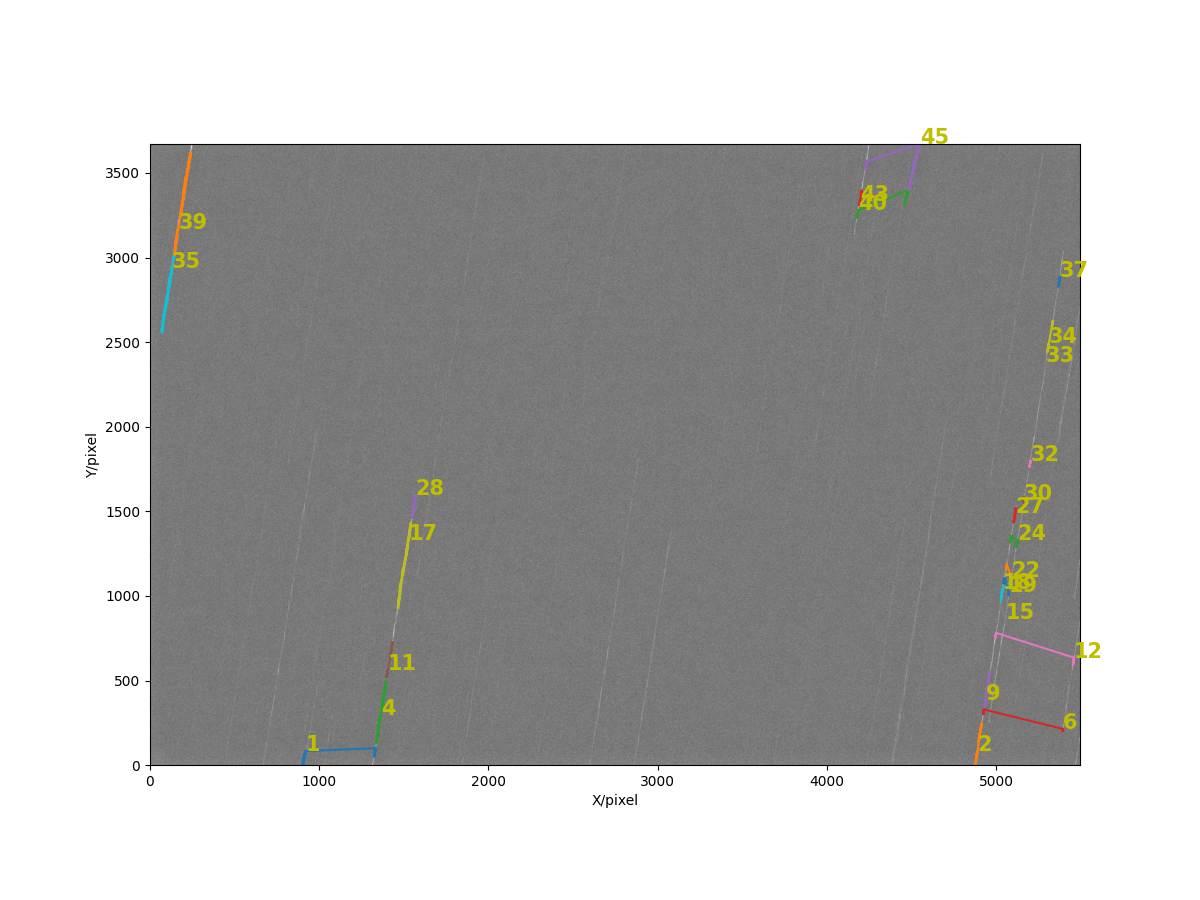
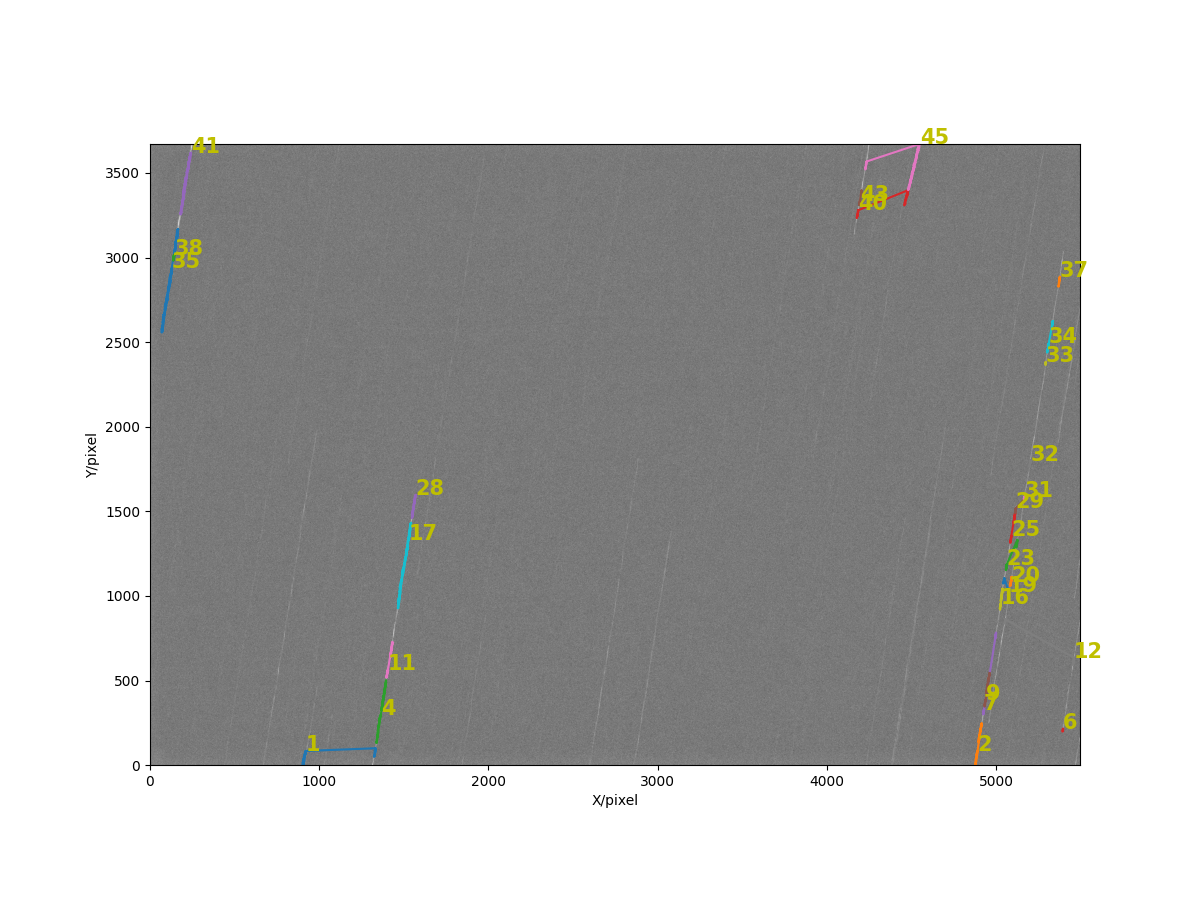
angle range parameter removal

diff --git a/astride/utils/edge3.py b/astride/utils/edge3.py
@@ -219,7 +219,7 @@ class EDGE:
         }
         return merged_edge
 
-    def connect_edges(self, proximity_threshold=500, angle_range=5):
+    def connect_edges(self, proximity_threshold=500):
         """Connect detected edges based on their slopes."""
         # Fitting a straight line to each edge.
         p0 = [0., 0.]
@@ -237,9 +237,10 @@ class EDGE:
         while i < len_edges - 1:
             j = i + 1
             while j < len_edges:
-                angle_difference = np.abs(self.edges[i]['slope_angle'] - self.edges[j]['slope_angle'])
-                if angle_difference <= self.connectivity_angle:
-                    if angle_difference <= angle_range and self.check_center_proximity(self.edges[i], self.edges[j], proximity_threshold):
+                if np.abs(self.edges[i]['slope_angle'] -
+                          self.edges[j]['slope_angle']) <= \
+                   self.connectivity_angle:
+                    if self.check_center_proximity(self.edges[i], self.edges[j], proximity_threshold):
                         self.edges[i] = self.merge_edges(self.edges[i], self.edges[j])
                         del self.edges[j]
                         len_edges -= 1
